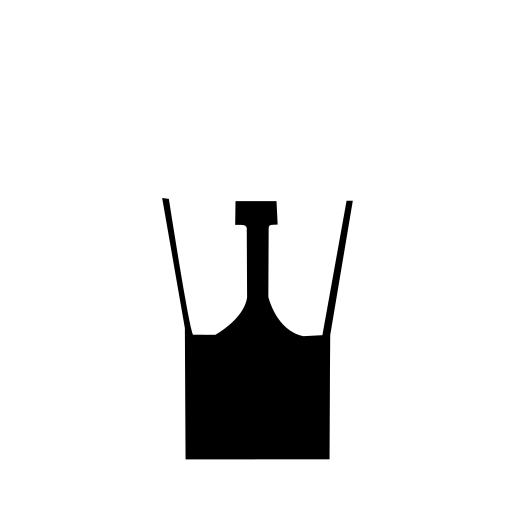
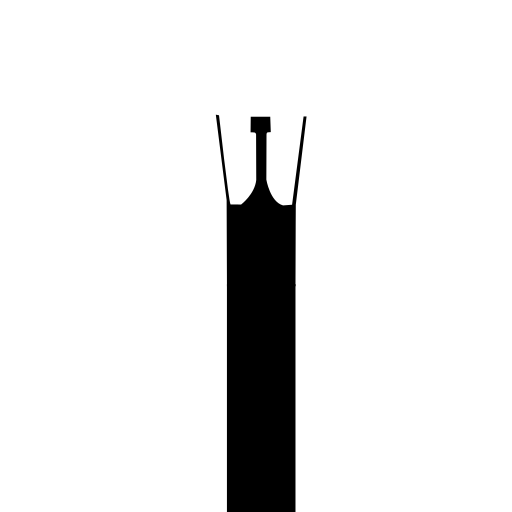
Update Front_sight.png with new graphics
Update Front_sight.png with new graphics

Update Front_sight.png with new graphics

Update Front_sight.png with new graphics

Refactor sight graphics in shooting game: replace SVG with image elements for front and rear sights

Refactor sight positioning logic and update aim crosshair visibility in shooting game

Add front and rear sight images to shooting game and update positioning logic

Changed region(s): [[0.3125, 0.2188, 0.6875, 1.0], [0.5938, 0.2188, 0.625, 0.25]]

diff --git a/frontend/index.html b/frontend/index.html
@@ -3512,42 +3512,16 @@
                                         </div>
                                     </div>
 
-                                    <!-- Front Sight: Rifle Graphic at Bottom Center -->
+                                    <!-- Front sight -->
                                     <div id="t91-gun-container"
                                         class="absolute bottom-0 left-1/2 -translate-x-1/2 w-80 md:w-[480px] pointer-events-none z-10 transition-transform duration-75 origin-bottom">
-                                        <svg viewBox="0 0 400 200"
-                                            class="w-full h-auto drop-shadow-[0_-5px_15px_rgba(0,0,0,0.9)]">
-                                            <rect x="180" y="20" width="40" height="120" fill="#1c1917" rx="4"
-                                                stroke="#44403c" stroke-width="2" />
-                                            <polygon points="190,40 210,40 205,10 195,10" fill="#262626"
-                                                stroke="#525252" stroke-width="1.5" />
-                                            <line x1="200" y1="25" x2="200" y2="8" stroke="#f59e0b" stroke-width="3"
-                                                stroke-linecap="round" />
-                                            <rect x="160" y="110" width="80" height="70" fill="#262626" stroke="#404040"
-                                                stroke-width="2" rx="4" />
-                                            <rect x="175" y="115" width="50" height="25" fill="#171717" stroke="#737373"
-                                                stroke-width="2" rx="2" />
-                                            <circle cx="200" cy="127" r="8" fill="none" stroke="#f59e0b"
-                                                stroke-width="2" />
-                                            <path d="M 170 170 L 230 170 L 220 200 L 180 200 Z" fill="#0a0a0a"
-                                                stroke="#333333" />
-                                        </svg>
+                                        <img src="docs/Front_sight.png" alt="" class="w-full h-auto" />
                                     </div>
 
-                                    <!-- Rear Sight: Original Reticle Overlay -->
+                                    <!-- Rear sight -->
                                     <div id="aim-crosshair"
-                                        class="absolute left-1/2 top-1/2 w-32 h-32 md:w-44 md:h-44 pointer-events-none transform -translate-x-1/2 -translate-y-1/2 transition-transform duration-75 z-20 opacity-30">
-                                        <div
-                                            class="absolute inset-0 rounded-full border-[10px] md:border-[16px] border-black/85 shadow-[0_0_0_9999px_rgba(0,0,0,0.65)] flex items-center justify-center">
-                                            <div class="w-full h-full rounded-full border-2 border-amber-500/70 relative">
-                                                <div
-                                                    class="absolute bottom-0 left-1/2 w-1.5 md:w-2 h-1/2 bg-amber-400 transform -translate-x-1/2 shadow-[0_0_8px_rgba(245,158,11,0.9)]">
-                                                    <div class="w-full h-1.5 bg-red-500 rounded-t-sm shadow-[0_0_5px_rgba(239,68,68,1)]"></div>
-                                                </div>
-                                                <div class="absolute top-1/2 left-1 -translate-y-1/2 w-2 h-6 border-l-2 border-amber-500/50"></div>
-                                                <div class="absolute top-1/2 right-1 -translate-y-1/2 w-2 h-6 border-r-2 border-amber-500/50"></div>
-                                            </div>
-                                        </div>
+                                        class="absolute left-1/2 top-1/2 w-64 h-64 md:w-96 md:h-96 pointer-events-none transform -translate-x-1/2 -translate-y-1/2 transition-transform duration-75 z-20">
+                                        <img src="docs/Rear_sight.png" alt="" class="w-full h-full object-contain" />
                                     </div>
 
                                     <!-- Controls (Mobile Virtual Joystick on Left, Aim & Shoot Buttons on Right) -->
